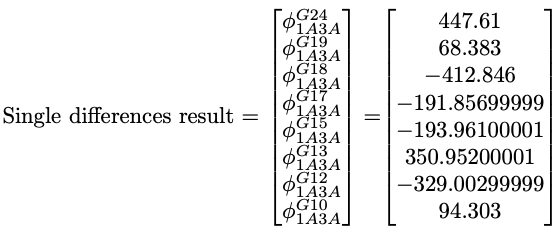
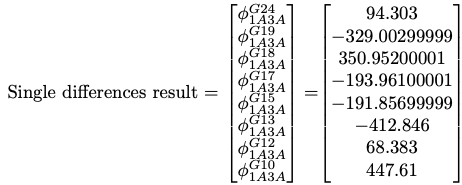
l_vector ordering changed. Changes made to README.md

Changed region(s): [[0.0, 0.0, 1.0, 1.0]]

diff --git a/Data.py b/Data.py
@@ -63,14 +63,17 @@ G19_rover_obs = [22181785.598, 116566080.299]
 G24_rover_obs = [20436682.002, 107395502.123]
 
 # At the first epoch we have 16 raw phase observations in cycles.
-l = np.transpose([G10_base_obs[1], G10_rover_obs[1],
-                  G12_base_obs[1], G12_rover_obs[1],
-                  G13_base_obs[1], G13_rover_obs[1],
-                  G15_base_obs[1], G15_rover_obs[1],
-                  G17_base_obs[1], G17_rover_obs[1],
-                  G18_base_obs[1], G18_rover_obs[1],
-                  G19_base_obs[1], G19_rover_obs[1],
-                  G24_base_obs[1], G24_rover_obs[1]])
+
+l = np.transpose([
+    G24_base_obs[1], G24_rover_obs[1],
+    G19_base_obs[1], G19_rover_obs[1],
+    G18_base_obs[1], G18_rover_obs[1],
+    G17_base_obs[1], G17_rover_obs[1],
+    G15_base_obs[1], G15_rover_obs[1],
+    G13_base_obs[1], G13_rover_obs[1],
+    G12_base_obs[1], G12_rover_obs[1],
+    G10_base_obs[1], G10_rover_obs[1]
+])
 
 """
 Standard Deviations
